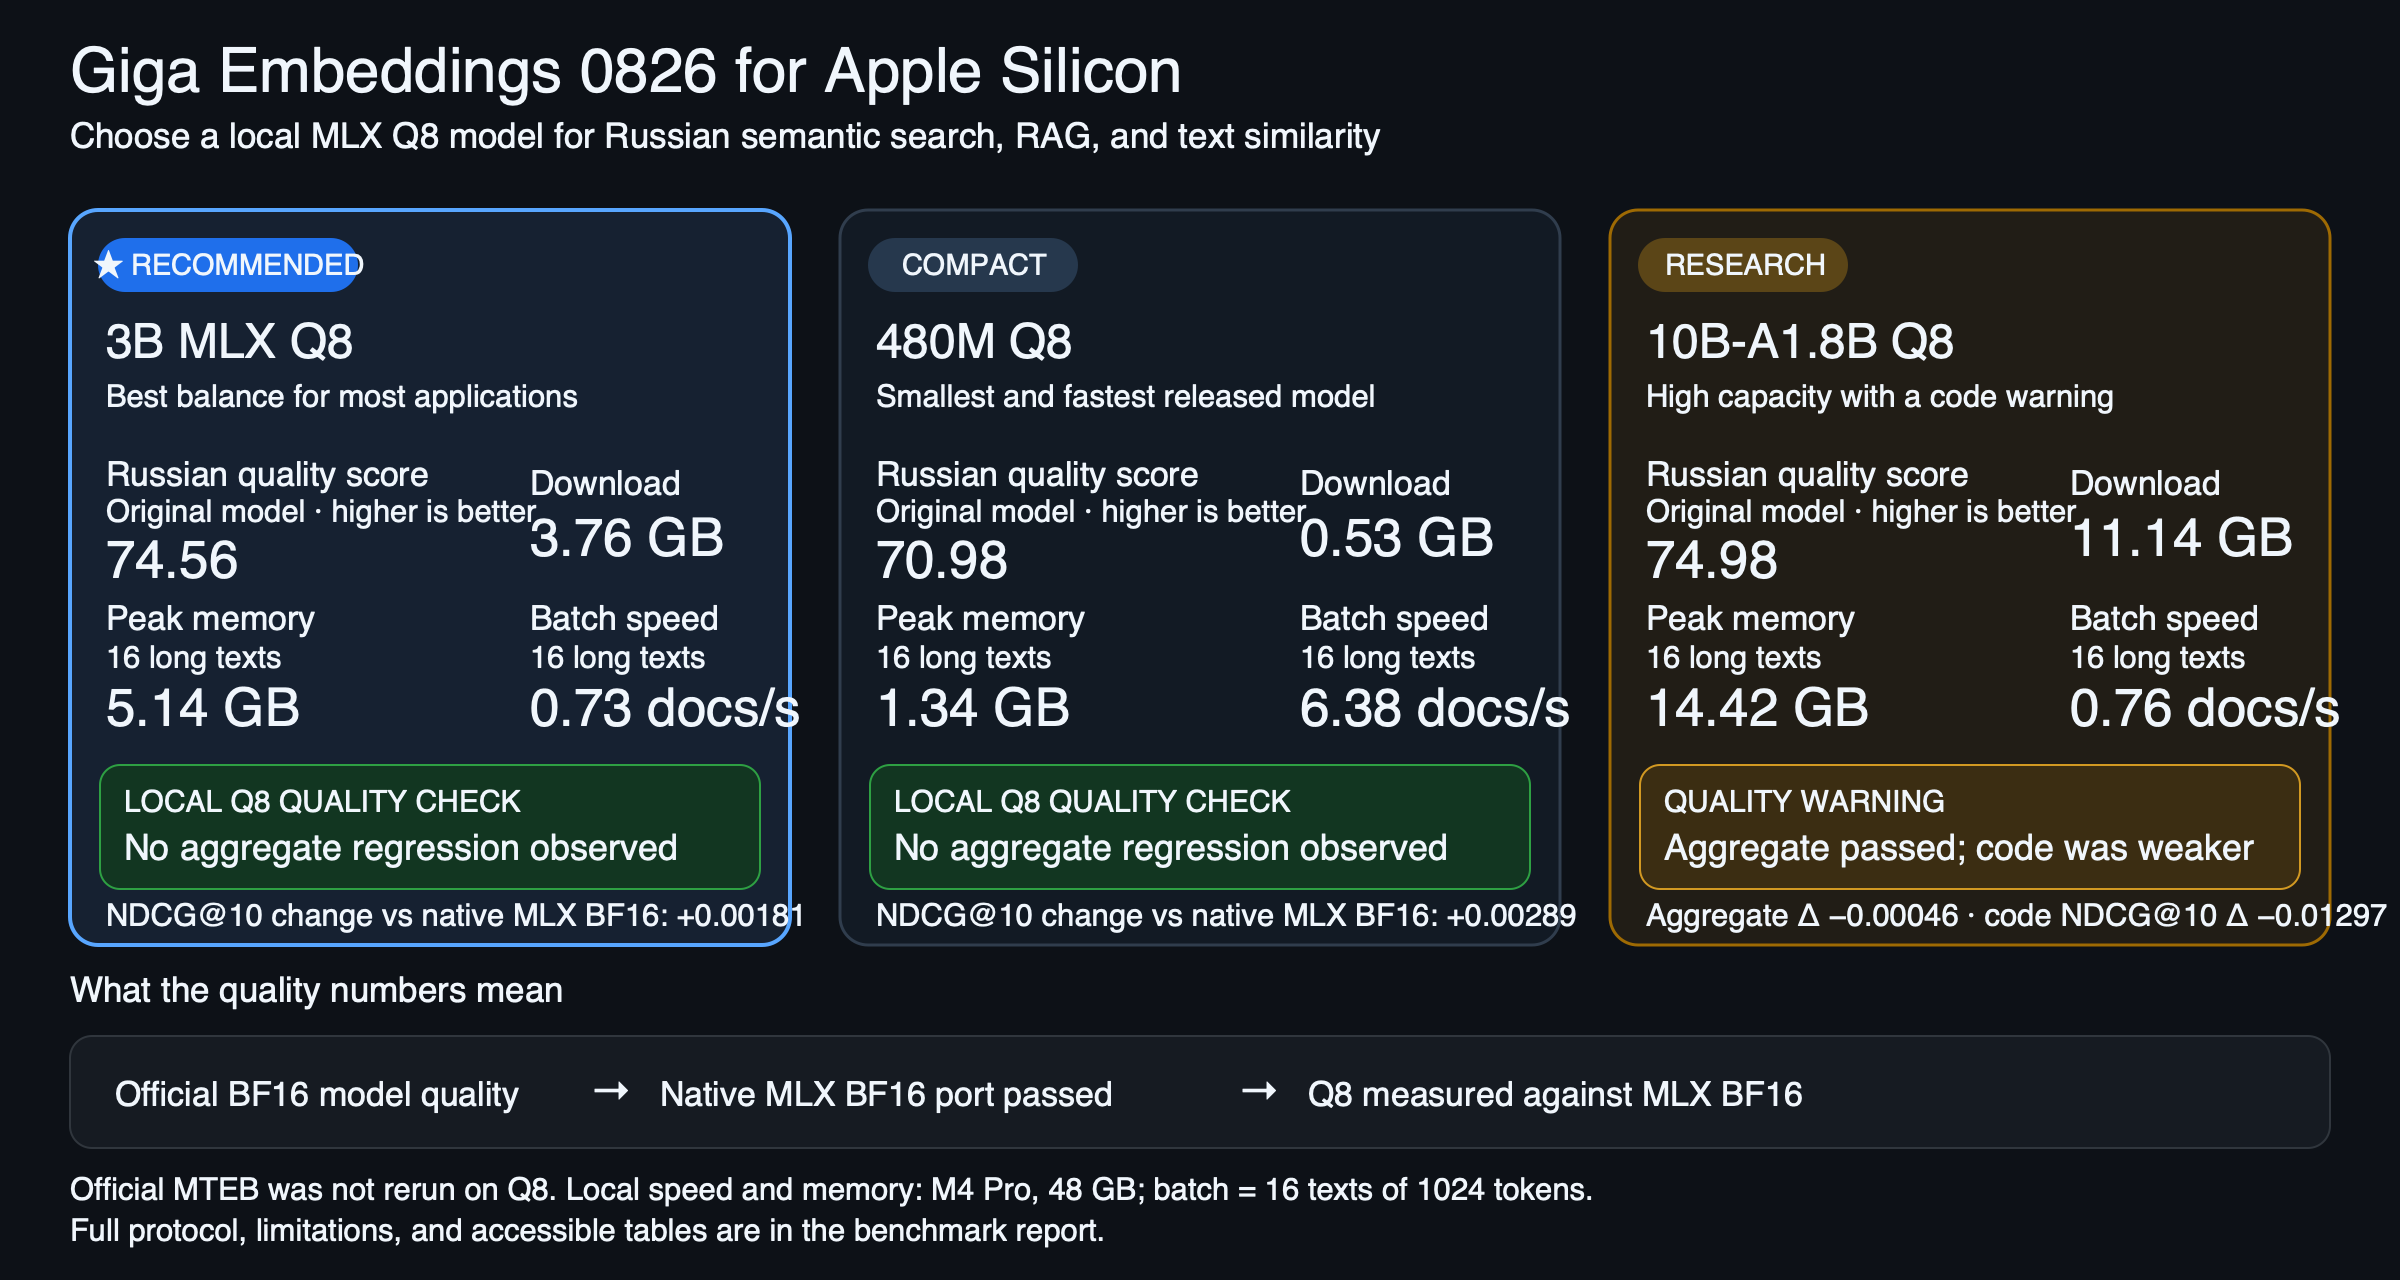
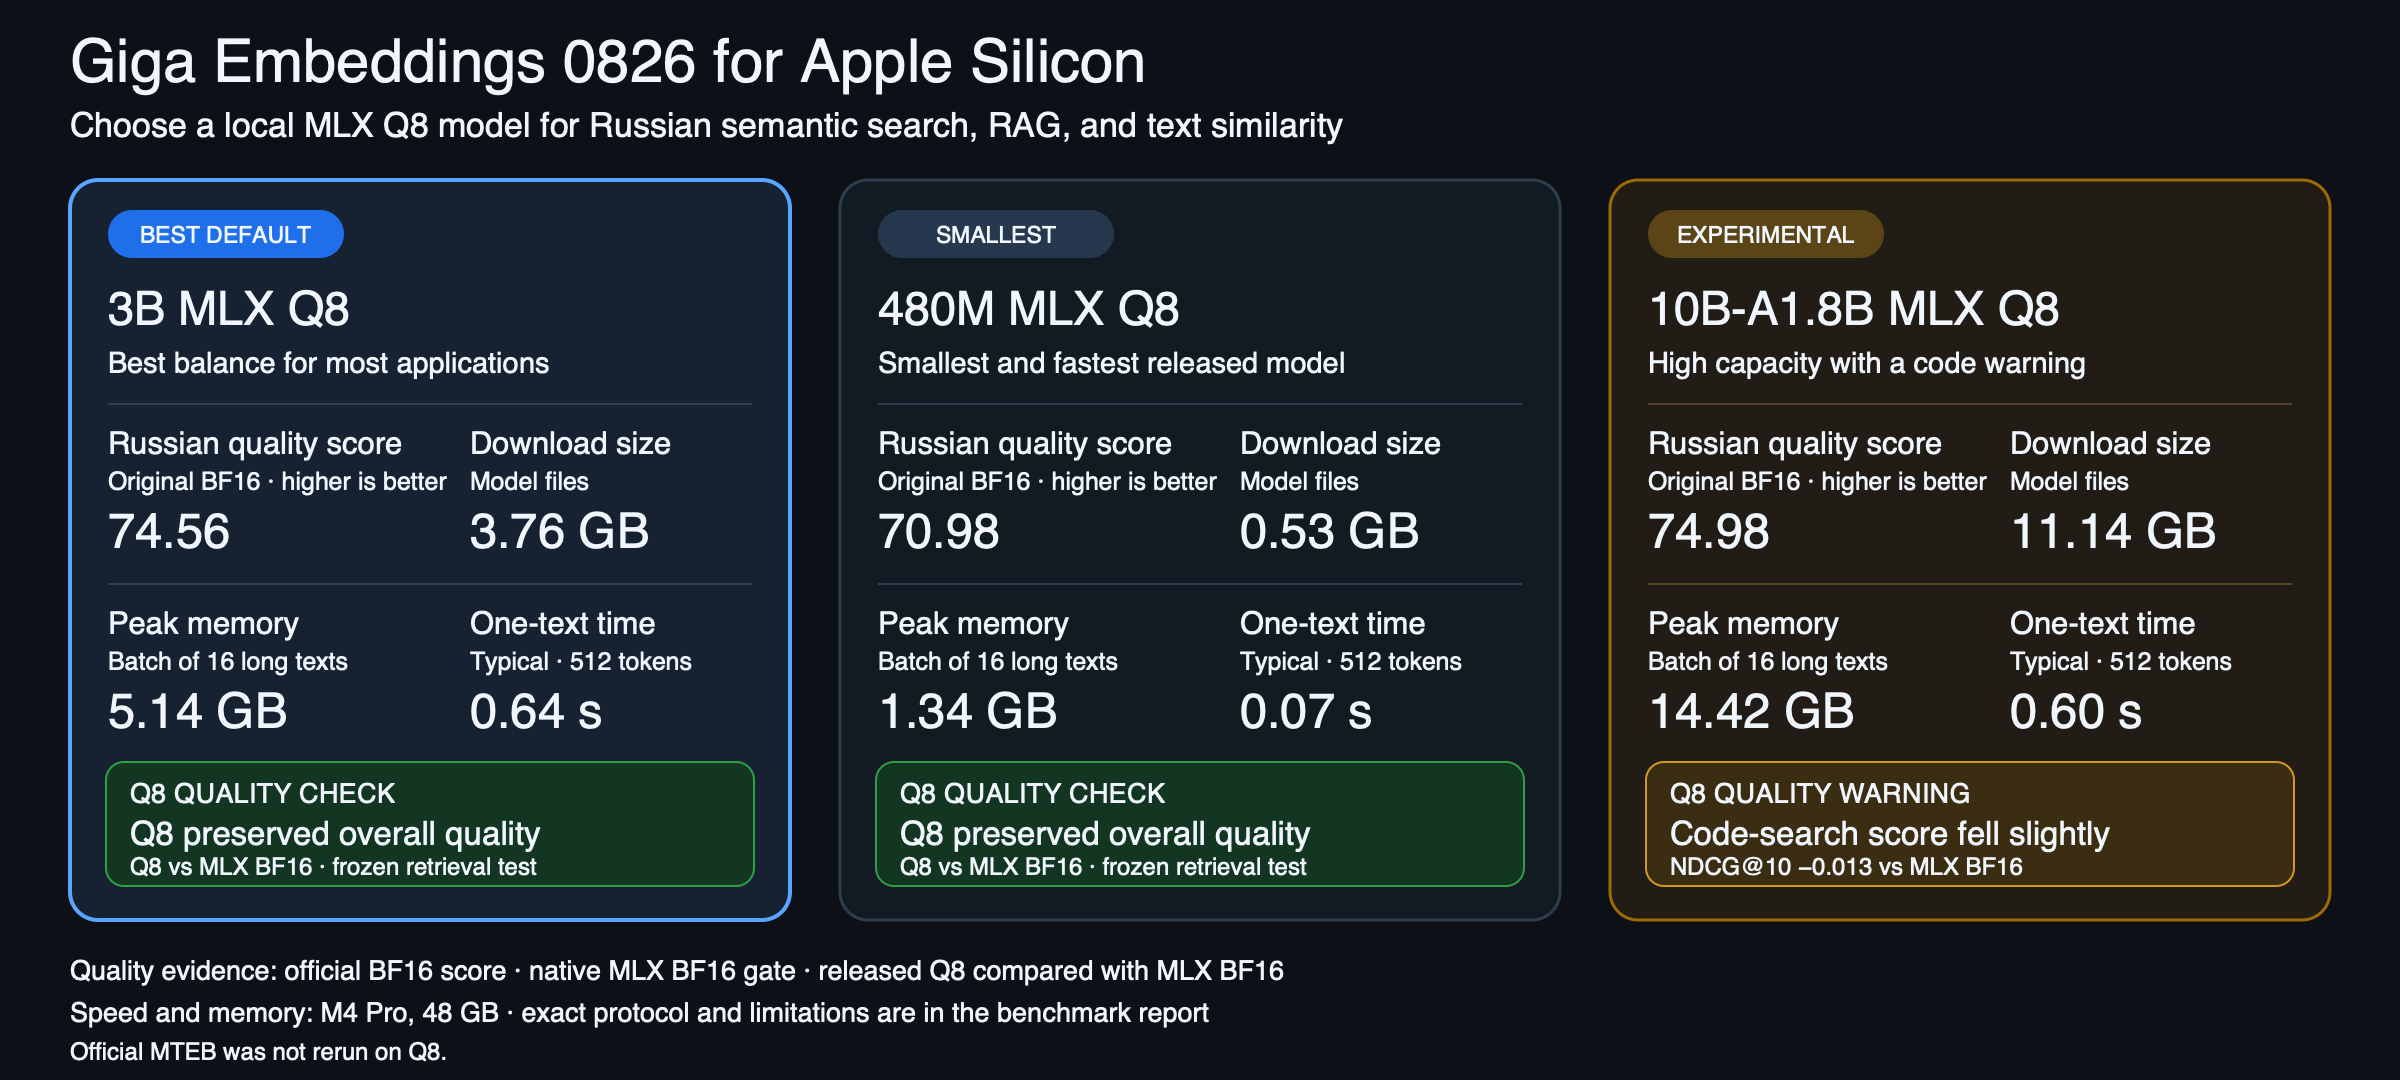
docs: refine MLX model comparison graphic

Changed region(s): [[0.0312, 0.0306, 1.0, 1.0]]

diff --git a/hf_cards/480m-q8/README.ru.md b/hf_cards/480m-q8/README.ru.md
@@ -31,7 +31,7 @@ inference: false
 [PyPI](https://pypi.org/project/giga-embeddings-mlx/) ·
 [Оригинальная статья](https://arxiv.org/abs/2608.23806)
 
-![Какую модель Giga Embeddings 0826 MLX выбрать](https://raw.githubusercontent.com/ai-babai/giga-embeddings-mlx/main/docs/giga-embeddings-0826-mlx-choice.png?v=0.1.2)
+![Какую модель Giga Embeddings 0826 MLX выбрать](https://raw.githubusercontent.com/ai-babai/giga-embeddings-mlx/main/docs/giga-embeddings-0826-mlx-choice.png?v=2026-08-26-2)
 
 Компактная модель для локального семантического поиска, RAG, сравнения текстов,
 кластеризации и классификации на русском и английском языках. Это самый маленький

diff --git a/hf_cards/3b-q8/README.ru.md b/hf_cards/3b-q8/README.ru.md
@@ -31,7 +31,7 @@ inference: false
 [PyPI](https://pypi.org/project/giga-embeddings-mlx/) ·
 [Оригинальная статья](https://arxiv.org/abs/2608.23806)
 
-![Какую модель Giga Embeddings 0826 MLX выбрать](https://raw.githubusercontent.com/ai-babai/giga-embeddings-mlx/main/docs/giga-embeddings-0826-mlx-choice.png?v=0.1.2)
+![Какую модель Giga Embeddings 0826 MLX выбрать](https://raw.githubusercontent.com/ai-babai/giga-embeddings-mlx/main/docs/giga-embeddings-0826-mlx-choice.png?v=2026-08-26-2)
 
 Рекомендуемая модель по умолчанию для локального семантического поиска, RAG,
 сравнения текстов, кластеризации и классификации на русском и английском языках.

diff --git a/hf_cards/10b-a1.8b-q8/README.ru.md b/hf_cards/10b-a1.8b-q8/README.ru.md
@@ -33,7 +33,7 @@ inference: false
 [PyPI](https://pypi.org/project/giga-embeddings-mlx/) ·
 [Оригинальная статья](https://arxiv.org/abs/2608.23806)
 
-![Какую модель Giga Embeddings 0826 MLX выбрать](https://raw.githubusercontent.com/ai-babai/giga-embeddings-mlx/main/docs/giga-embeddings-0826-mlx-choice.png?v=0.1.2)
+![Какую модель Giga Embeddings 0826 MLX выбрать](https://raw.githubusercontent.com/ai-babai/giga-embeddings-mlx/main/docs/giga-embeddings-0826-mlx-choice.png?v=2026-08-26-2)
 
 > **Исследовательская модель с предупреждением по поиску в коде.** Совокупное
 > качество поиска прошло порог приёмки, но NDCG@10 для кода изменился на

diff --git a/README.ru.md b/README.ru.md
@@ -14,7 +14,7 @@
 [Полный MLX-бенчмарк](docs/benchmarks/0826-results.md) ·
 [Последний релиз](https://github.com/ai-babai/giga-embeddings-mlx/releases/latest)
 
-![Какую модель Giga Embeddings 0826 MLX выбрать для Apple Silicon](https://raw.githubusercontent.com/ai-babai/giga-embeddings-mlx/main/docs/giga-embeddings-0826-mlx-choice.png?v=0.1.2)
+![Какую модель Giga Embeddings 0826 MLX выбрать для Apple Silicon](https://raw.githubusercontent.com/ai-babai/giga-embeddings-mlx/main/docs/giga-embeddings-0826-mlx-choice.png?v=2026-08-26-2)
 
 ## Зачем нужен этот MLX-порт?
 

diff --git a/hf_cards/480m-q8/README.md b/hf_cards/480m-q8/README.md
@@ -31,7 +31,7 @@ inference: false
 [PyPI](https://pypi.org/project/giga-embeddings-mlx/) ·
 [Original paper](https://arxiv.org/abs/2608.23806)
 
-![Choose a Giga Embeddings 0826 MLX model](https://raw.githubusercontent.com/ai-babai/giga-embeddings-mlx/main/docs/giga-embeddings-0826-mlx-choice.png?v=0.1.2)
+![Choose a Giga Embeddings 0826 MLX model](https://raw.githubusercontent.com/ai-babai/giga-embeddings-mlx/main/docs/giga-embeddings-0826-mlx-choice.png?v=2026-08-26-2)
 
 The compact choice for local Russian and English semantic search, RAG, text
 similarity, clustering, and classification on Apple Silicon. It is the smallest

diff --git a/hf_cards/10b-a1.8b-q8/README.md b/hf_cards/10b-a1.8b-q8/README.md
@@ -33,7 +33,7 @@ inference: false
 [PyPI](https://pypi.org/project/giga-embeddings-mlx/) ·
 [Original paper](https://arxiv.org/abs/2608.23806)
 
-![Choose a Giga Embeddings 0826 MLX model](https://raw.githubusercontent.com/ai-babai/giga-embeddings-mlx/main/docs/giga-embeddings-0826-mlx-choice.png?v=0.1.2)
+![Choose a Giga Embeddings 0826 MLX model](https://raw.githubusercontent.com/ai-babai/giga-embeddings-mlx/main/docs/giga-embeddings-0826-mlx-choice.png?v=2026-08-26-2)
 
 > **Research model with a code-search warning.** Overall retrieval quality
 > passed our acceptance gate, but code-search NDCG@10 changed by `−0.01297`

diff --git a/hf_cards/3b-q8/README.md b/hf_cards/3b-q8/README.md
@@ -31,7 +31,7 @@ inference: false
 [PyPI](https://pypi.org/project/giga-embeddings-mlx/) ·
 [Original paper](https://arxiv.org/abs/2608.23806)
 
-![Choose a Giga Embeddings 0826 MLX model](https://raw.githubusercontent.com/ai-babai/giga-embeddings-mlx/main/docs/giga-embeddings-0826-mlx-choice.png?v=0.1.2)
+![Choose a Giga Embeddings 0826 MLX model](https://raw.githubusercontent.com/ai-babai/giga-embeddings-mlx/main/docs/giga-embeddings-0826-mlx-choice.png?v=2026-08-26-2)
 
 The recommended default for local Russian and English semantic search, RAG,
 text similarity, clustering, and classification on Apple Silicon. This mixed

diff --git a/README.md b/README.md
@@ -14,7 +14,7 @@ a cloud API, or Python code from model repositories during normal inference.
 [Full MLX benchmark](docs/benchmarks/0826-results.md) ·
 [Latest release](https://github.com/ai-babai/giga-embeddings-mlx/releases/latest)
 
-![Choose a Giga Embeddings 0826 MLX model for Apple Silicon](https://raw.githubusercontent.com/ai-babai/giga-embeddings-mlx/main/docs/giga-embeddings-0826-mlx-choice.png?v=0.1.2)
+![Choose a Giga Embeddings 0826 MLX model for Apple Silicon](https://raw.githubusercontent.com/ai-babai/giga-embeddings-mlx/main/docs/giga-embeddings-0826-mlx-choice.png?v=2026-08-26-2)
 
 ## Why this MLX port?
 
